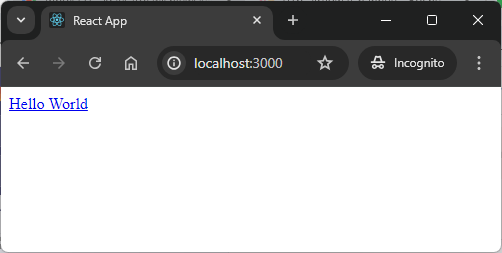
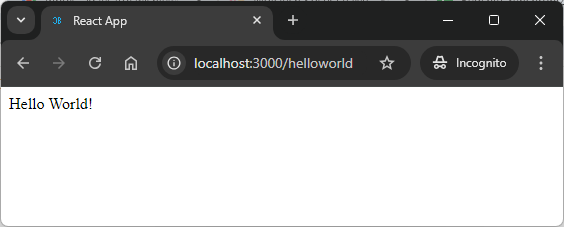
Update Readme file

diff --git a/technologies/routing/js-react-gui-html-helloworld-route-default-redirect/README.md b/technologies/routing/js-react-gui-html-helloworld-route-default-redirect/README.md
@@ -11,8 +11,7 @@ Usage steps:
 1. In a command line tool install nmp packages with `npm install`
 1. In a command line tool start application with `npm start`
 1. In a http browser (e.g. Chrome) visit `http://localhost:3000`
-   * Expected **Home** page. Click the link **Hello World**
-   * Expected **Hello World** page. Click the link **Back**
+   * Expected message **Hello World!**
 1. Clean up environment 
      * In a command line tool stop application with `ctrl + C`
 
@@ -22,18 +21,17 @@ USAGE IMAGES
 
 ![My Image](readme-images/image-01.png)
 
-![My Image](readme-images/image-02.png)
-
 
 DESCRIPTION
 -----------
 
 ##### Goal
-The goal of this project is to present how to use **routing** defined in the **index** file in an application type **GUI HTML** based on **JavaScript** programming language with usage **react** framework.
+The goal of this project is to present how to use **routing default redirect** in an application type **GUI HTML** based on **JavaScript** programming language with usage **react** framework.
 
 ##### Terminology
 Terminology explanation:
 * **Routing**: in React it's responsible for navigation between different pages. Because React uses Single Page Application so routing reloads only flexible content on this once loaded page.
+* **Default redirect**: it's redirect for first default URL "/".
 * **Index file**: it's first file run by React framework. In this example all routing is defined here and used in components.
 * **JavaScript**: is a scripting or programming language that allows you to implement complex features on web pages or to implement web applications.
 * **GUI HTML**: it's an abbreviation for Graphical User Interface. It enables user to interact with application. GUI HTML means that user interacts with application via html web pag.
